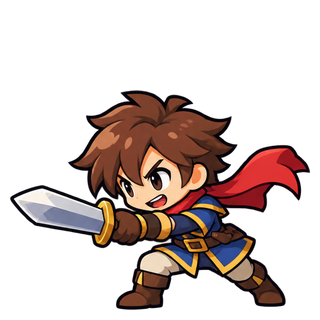
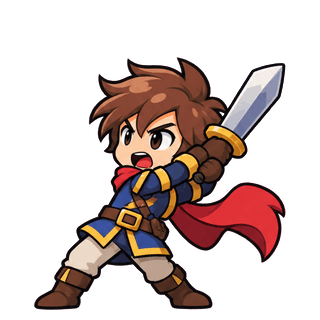
monsteridle: 애니메이션 프레임 1차 66장 — 대기 2장 · 공격 3장 (5812bfa)

diff --git a/monsteridle/src/render.js b/monsteridle/src/render.js
@@ -5,8 +5,8 @@
 // 용사는 Idle/Attack/Hit/Dead 프레임이 멀쩡해서 프레임 애니를 그대로 쓴다.
 import { B, heroAt, zoneAt, sceneEvery, heroPool } from './balance.js';
 import { S } from './state.js';
-import { R, enrage, gateSecondsLeft, gateSoft, CHAIN_WARM, DANGER_AT, WAVE_IN_SEC, HEAVY_SEC } from './combat.js';
-import { pick, preload, boxOf, frameCount } from './sprites.js';
+import { R, enrage, gateSecondsLeft, gateSoft, CHAIN_WARM, DANGER_AT, WAVE_IN_SEC, HEAVY_SEC, FOE_POSE } from './combat.js';
+import { pick, preload, boxOf, frameCount, evoPrefix } from './sprites.js';
 import { activeCompanions, compImage, monTier, skyCompanions } from './companions.js';
 import { L0, ratio, fmt } from './logmath.js';
 
@@ -298,7 +298,7 @@ function drawSky(base) {
   // 멀리 있는 것이 더 크면 거리감이 깨진다. 지면 동료보다 작게 잡는다.
   const h = base * 0.062;
   for (const c of list) {
-    const img = compImage(c.id);
+    const img = compImage(c.id, blinkFrame(c.phase));     // 가끔 대기 둘째 장(날갯짓·눈 감기)
     if (!img) continue;
     const cx = W * c.x;
     const cy = H * c.y + Math.sin(t * 1.6 + c.phase) * h * 0.14;   // 느리게 오르내린다
@@ -610,6 +610,15 @@ function ambTick(dt, zone) {
 // 적 인덱스 → 화면 좌표. 매 프레임 적을 그리며 채우고, 투사체·파편이 그대로 쓴다.
 // 숫자 연출은 예전처럼 인덱스 근사 위치를 쓰지만 투사체는 실제로 맞아야 해서 좌표가 필요하다.
 const foePos = [];
+// ── 프레임 고르기 (애니 1차: 대기 2장 · 공격 3장) ──
+// 대기 둘째 장은 눈 감기·숨 들이쉼이라 **가끔** 보여 준다. 0.5초씩 번갈았더니 계속 깜빡이는
+// 것처럼 보였다. 캐릭터마다 주기(2.4~3.4초)와 박자를 어긋내 무리가 한꺼번에 눈을 감지 않게 한다.
+const blinkFrame = ph => {
+  const P = 2.4 + (Math.abs(Math.sin(ph * 12.9898)) % 1);
+  return ((t + ph * 7.3) % P) < 0.32 ? 1 : 0;
+};
+// 공격 3장 = 준비 · 타격 · 마무리. u 는 공격 동작 진행도 0 → 1. 1장뿐이면 늘 타격(0번)
+const atkFrame = (n, u) => (n >= 3 ? (u < 0.28 ? 0 : u < 0.66 ? 1 : 2) : 0);
 // 화면 전용 잔재 — 쓰러져 날아가는 몸 · 별가루. 전투 상태에 쓰지 않는다.
 let corpses = [], sparks = [];
 let leadDx = 0;                 // 이번 프레임 리드의 가로 이동(런지·강타 돌진). 강타 투사체의 출발점
@@ -724,7 +733,6 @@ function drawBolt(x, y, u, b, size) {
 export function render(dt) {
   if (!ctx || !W || !H) return;
   t += dt;
-  const frame = Math.floor(t * 7);
 
   ctx.save();
   if (R.shake > 0) {
@@ -773,7 +781,15 @@ export function render(dt) {
     const own = compImage(c.id);
     if (own) drawSprite(own, cx, cy, h, boxOf('comp', c.id), opt);
     // 동료도 자기 레벨의 진화 모습으로 선다 — 수집한 몬스터를 키우는 보람이 전장에 보여야 한다
-    else drawSprite(pick('mon', c.sprite, 'idle', 0, c.tier || 0), cx, cy, h, boxOf('mon', c.sprite), opt);
+    else {
+      // 내지를 때는 공격 3장, 평소에는 대기(가끔 눈 감기). 진화 단계에 공격 프레임이 1장뿐이면 대기로 둔다
+      const pre = evoPrefix('mon', c.sprite, c.tier || 0);
+      const nA = frameCount('mon', c.sprite, 'attack', pre), nI = frameCount('mon', c.sprite, 'idle', pre);
+      const img = lunge > 0 && nA >= 3
+        ? pick('mon', c.sprite, 'attack', atkFrame(nA, e), c.tier || 0)
+        : pick('mon', c.sprite, 'idle', nI > 1 ? blinkFrame(c.phase) : 0, c.tier || 0);
+      drawSprite(img, cx, cy, h, boxOf('mon', c.sprite), opt);
+    }
     drawTier(cx, cy, h, c.tier || 0, 0.45, 'front');
   };
   const LEAD_D = 0.45;
@@ -785,8 +801,13 @@ export function render(dt) {
   const pose = R.atkAnimT > 0 ? 'attack' : R.pHitT > 0 ? 'hit' : 'idle';
   // 리드도 레벨(마일스톤 티어)에 따라 겉모습이 바뀐다. 그림이 없으면 pick() 이 기본으로 내려준다
   const leadTier = monTier(S.mon);
-  const pImg = pick('mon', S.mon, pose, 0, leadTier);
-  const hasPose = frameCount('mon', S.mon, pose) > 0;
+  const leadPre = evoPrefix('mon', S.mon, leadTier);
+  const nPose = frameCount('mon', S.mon, pose, leadPre);
+  // 공격은 준비 → 타격 → 마무리, 대기는 가끔 눈 감기
+  const fi = pose === 'attack' ? atkFrame(nPose, 1 - Math.max(0, R.atkAnimT) / (R.atkAnimMax || 0.25))
+    : pose === 'idle' && nPose > 1 ? blinkFrame(0.13) : 0;
+  const pImg = pick('mon', S.mon, pose, fi, leadTier);
+  const hasPose = nPose > 0;
   const atk = Math.max(0, R.atkAnimT) / 0.25;               // 1 → 0
   const lungePhase = Math.sin((1 - atk) * Math.PI);          // 0 → 1 → 0
   // 포즈 그림이 이미 런지를 그리고 있으면 변형을 약하게 준다 — 둘 다 세게 주면 과장된다
@@ -898,7 +919,12 @@ export function render(dt) {
     }
     const kb = e.kbT > 0 ? Math.sin((e.kbT / 0.26) * Math.PI) : 0;   // 강타에 밀렸다 돌아온다
     if (dying > 0) ctx.globalAlpha = Math.max(0, dying);   // 쓰러지며 옅어진다
-    drawSprite(pick('hero', hero.key, fPose, frame + idx), ex, ey + eb, h, boxOf('hero', hero.key), {
+    // 프레임: 공격은 포즈 진행도로 준비 → 타격 → 마무리, 대기는 가끔 눈 감기. 예전엔 초당 7장으로
+    // 돌렸는데 대기 2장을 그렇게 돌리면 깜빡거린다
+    const nH = frameCount('hero', hero.key, fPose);
+    const fiH = fPose === 'attack' ? atkFrame(nH, 1 - Math.max(0, e.aPose) / FOE_POSE)
+      : fPose === 'idle' && nH > 1 ? blinkFrame(e.ph) : 0;
+    drawSprite(pick('hero', hero.key, fPose, fiH), ex, ey + eb, h, boxOf('hero', hero.key), {
       dx: hit * 7 + kb * W * 0.05 + (1 - dying) * (dying > 0 ? 14 : 0),    // 맞은 쪽으로 밀리며 쓰러진다
       sx: 1 + hit * 0.06,
       ring: dying > 0 ? null : FOE,

diff --git a/monsteridle/src/sprites.js b/monsteridle/src/sprites.js
@@ -13,8 +13,18 @@ const base = new URL('../assets/', import.meta.url);
  */
 export const boxOf = (group, key) => MANIFEST[group]?.[key]?.box ?? { x: 0, y: 0, w: 1, h: 1 };
 
-export function frameCount(group, key, anim) {
-  return MANIFEST[group]?.[key]?.[anim] ?? 0;
+/**
+ * 프레임 수. 진화 단계(pre = 't2_' 등)는 stageFrames 에 따로 적는다 — 없으면 그 단계는 포즈마다 1장.
+ * 애니 1차는 기본 단계만 여러 장이라, 단계 구분 없이 세면 진화한 몬스터가 없는 t2_attack_2 를
+ * 찾다가 엉뚱한 그림으로 떨어진다(make-anim.mjs).
+ */
+export function frameCount(group, key, anim, pre = '') {
+  const e = MANIFEST[group]?.[key];
+  if (!e) return 0;
+  if (!pre) return e[anim] ?? 0;
+  const s = e.stageFrames?.[pre];
+  if (s && typeof s[anim] === 'number') return s[anim];
+  return e[anim] ? 1 : 0;
 }
 
 // ── 진화 단계 ────────────────────────────────────────────────
@@ -57,10 +67,11 @@ export function evoNextTier(group, key, tier = 0) {
 
 /** 로드된 이미지 또는 null(아직 로딩 중/없음) */
 export function frame(group, key, anim, i, tier = 0) {
-  const n = frameCount(group, key, anim);
+  const pre = evoPrefix(group, key, tier);
+  const n = frameCount(group, key, anim, pre);
   if (!n) return null;
   const idx = ((i % n) + n) % n;
-  const name = `${evoPrefix(group, key, tier)}${anim}_${idx + 1}`;
+  const name = `${pre}${anim}_${idx + 1}`;
   const id = `${group}/${key}/${name}`;
   let img = cache.get(id);
   if (img === undefined) {
@@ -79,9 +90,11 @@ export function frame(group, key, anim, i, tier = 0) {
 export function preload(group, key, tier = 0) {
   const a = MANIFEST[group]?.[key];
   if (!a) return;
+  const pre = evoPrefix(group, key, tier);
   for (const anim of Object.keys(a)) {
     if (typeof a[anim] !== 'number') continue;        // box·evo 같은 건 프레임 수가 아니다
-    for (let i = 0; i < a[anim]; i++) frame(group, key, anim, i, tier);
+    const n = frameCount(group, key, anim, pre);
+    for (let i = 0; i < n; i++) frame(group, key, anim, i, tier);
   }
 }
 

diff --git a/monsteridle/src/companions.js b/monsteridle/src/companions.js
@@ -11,6 +11,7 @@ import { activeSlots, equippedList, RARITIES, gachaRev, CATALOG } from './gacha.
 import { B } from './balance.js';
 import { S } from './state.js';
 import { monLevel } from './layer2.js';
+import { frameCount } from './sprites.js';
 
 // 리드 기준 상대 배치. x 는 캔버스 폭 비율, y 는 리드 키 비율(음수 = 위 = 멀리).
 // 일부러 줄을 맞추지 않았다 — 줄을 세우면 "부대"가 아니라 "목록"으로 보인다.
@@ -35,16 +36,24 @@ const SLOTS = [
 ];
 
 const IMG = new Map();
-/** assets/comp/<id>.png 가 있으면 그것, 없으면 null (대역 스프라이트로 폴백) */
-export function compImage(id) {
-  if (!IMG.has(id)) {
+/**
+ * assets/comp/<id>.png 가 있으면 그것, 없으면 null (대역 스프라이트로 폴백).
+ * f 는 프레임 번호 — 대기 둘째 장(<id>_2.png)이 매니페스트에 있으면 쓴다. 아직 안 받아졌으면 1번.
+ */
+function loadComp(name) {
+  if (!IMG.has(name)) {
     const im = new Image();
-    im.src = new URL('../assets/comp/' + id + '.png', import.meta.url).href;
-    im.onerror = () => IMG.set(id, null);
-    IMG.set(id, im);
+    im.src = new URL('../assets/comp/' + name + '.png', import.meta.url).href;
+    im.onerror = () => IMG.set(name, null);
+    IMG.set(name, im);
   }
-  const im = IMG.get(id);
+  const im = IMG.get(name);
   return im && im.complete && im.naturalWidth > 0 ? im : null;
+}
+export function compImage(id, f = 0) {
+  const n = frameCount('comp', id, 'idle') || 1;
+  const k = n > 1 ? ((f % n) + n) % n : 0;
+  return (k && loadComp(`${id}_${k + 1}`)) || loadComp(id);
 }
 
 /**

diff --git a/monsteridle/src/combat.js b/monsteridle/src/combat.js
@@ -204,6 +204,7 @@ export function gateSecondsLeft() {
  * 11% 가 정지해 타격감이 아니라 **끊김**으로 읽힌다(실측). 멈춤은 드물어야 무겁다.
  */
 const HITSTOP_GAP = 0.30;
+export const FOE_POSE = 0.22;     // 적 공격 포즈 길이 — 공격 프레임 진행도의 분모
 export const HEAVY_EVERY = 4;     // 평타 몇 번째마다 강타인가
 export const HEAVY_SEC = 0.34;    // 강타 돌진 길이
 const HEAVY_GAP = 1.1;            // 강타 최소 간격(초)
@@ -444,6 +445,7 @@ export function tick(dt) {
   if (R.atkT <= 0) {
     R.atkT = interval;
     R.atkAnimT = Math.min(0.25, interval * 0.6);
+    R.atkAnimMax = R.atkAnimT;          // 공격 프레임(준비·타격·마무리) 진행도의 분모
     const crit = Math.random() < Math.min(1, nval('crit'));
     // 실제 피해를 **LDPS 에서 끌어온다.** 식을 두 벌 쓰면 반드시 어긋난다 —
     // 실제로 어긋나 있었다: gC(동료 배너)와 마스터리 노드가 표시 DPS 와
@@ -504,7 +506,7 @@ export function tick(dt) {
     e.atkT -= dt;
     if (e.atkT > 0) continue;
     e.atkT += period;
-    e.aPose = 0.22;
+    e.aPose = FOE_POSE;
     // 힐러는 **때리지 않는다.** 아군 체력만 채운다 — 그래서 혼자 나올 수도 없다.
     if (e.hero?.support) { foeHeal(e); continue; }
     if (foeStrike(e)) return;                    // 죽었으면 더 처리하지 않는다
